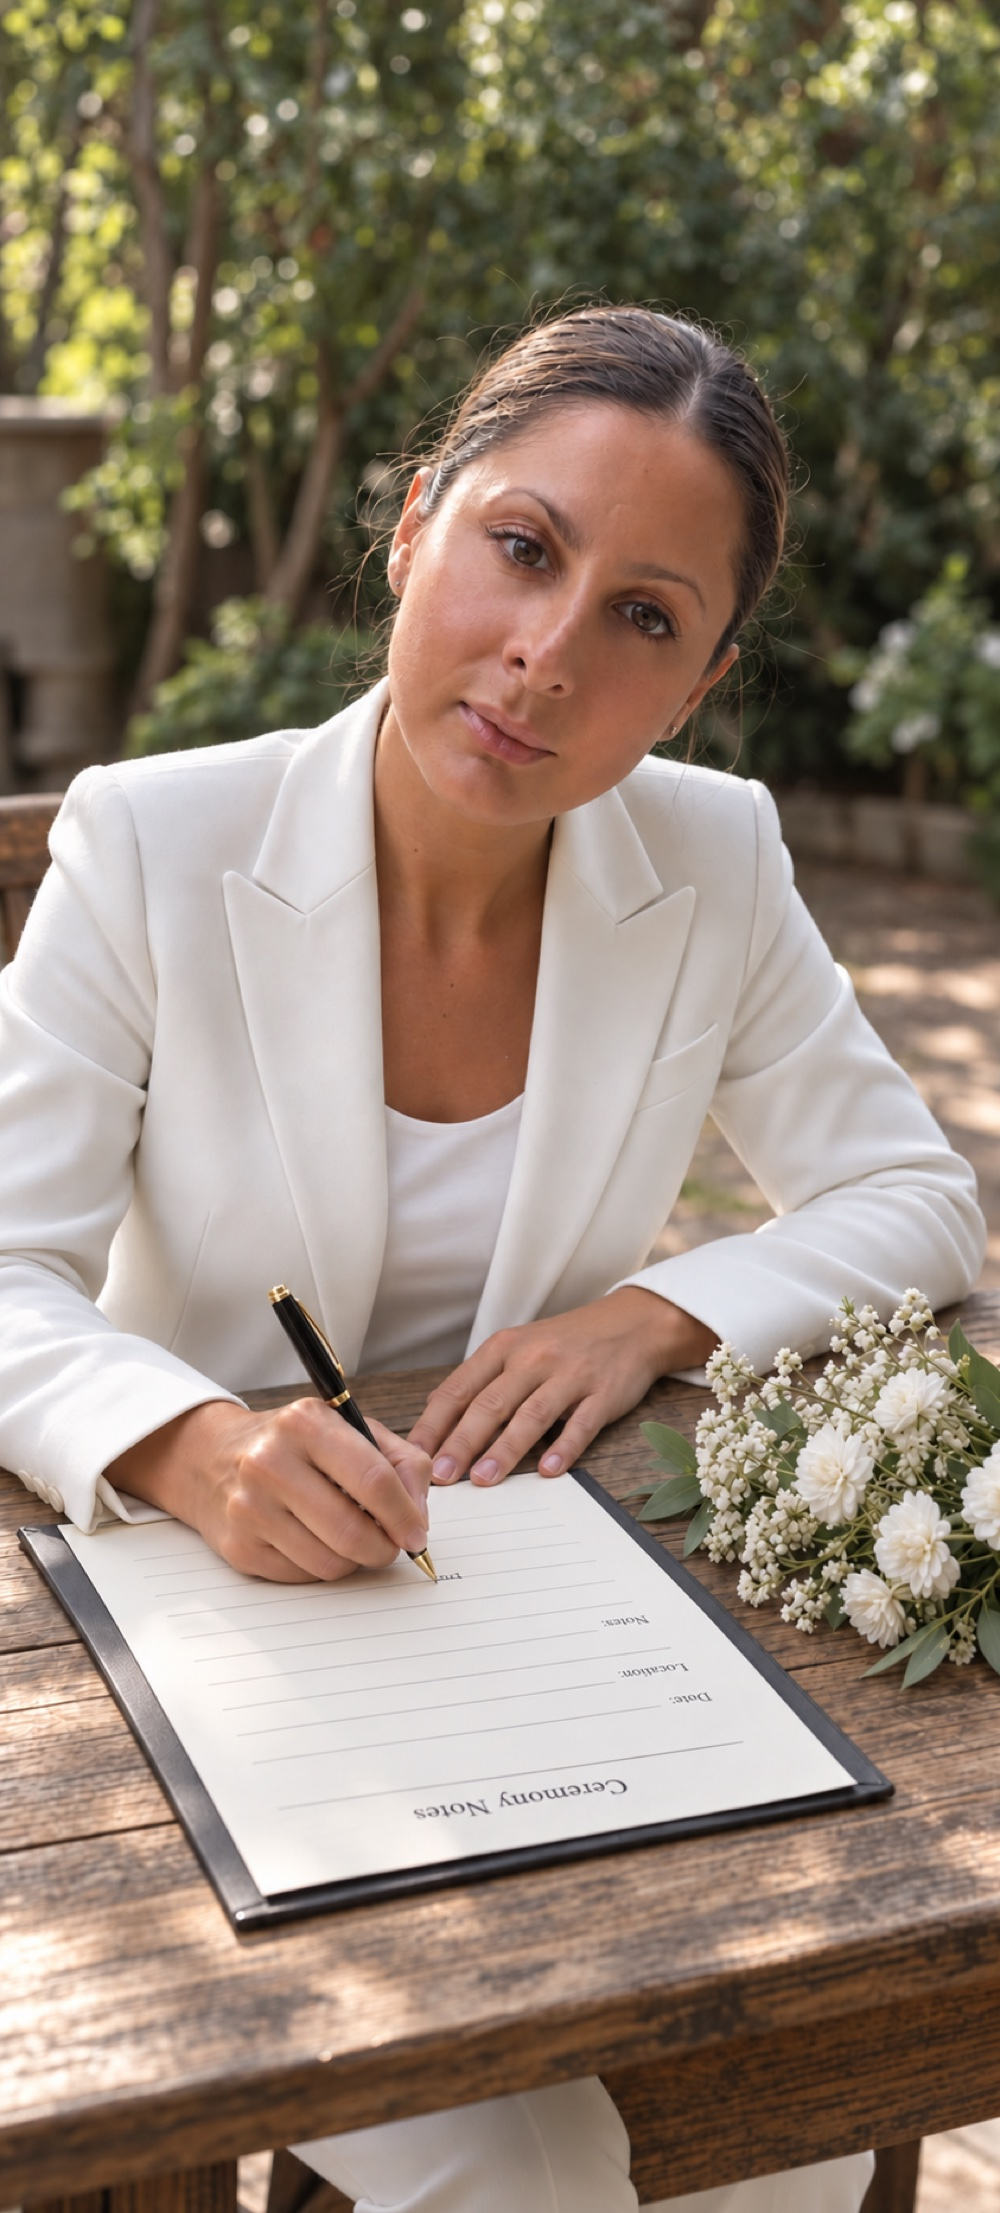
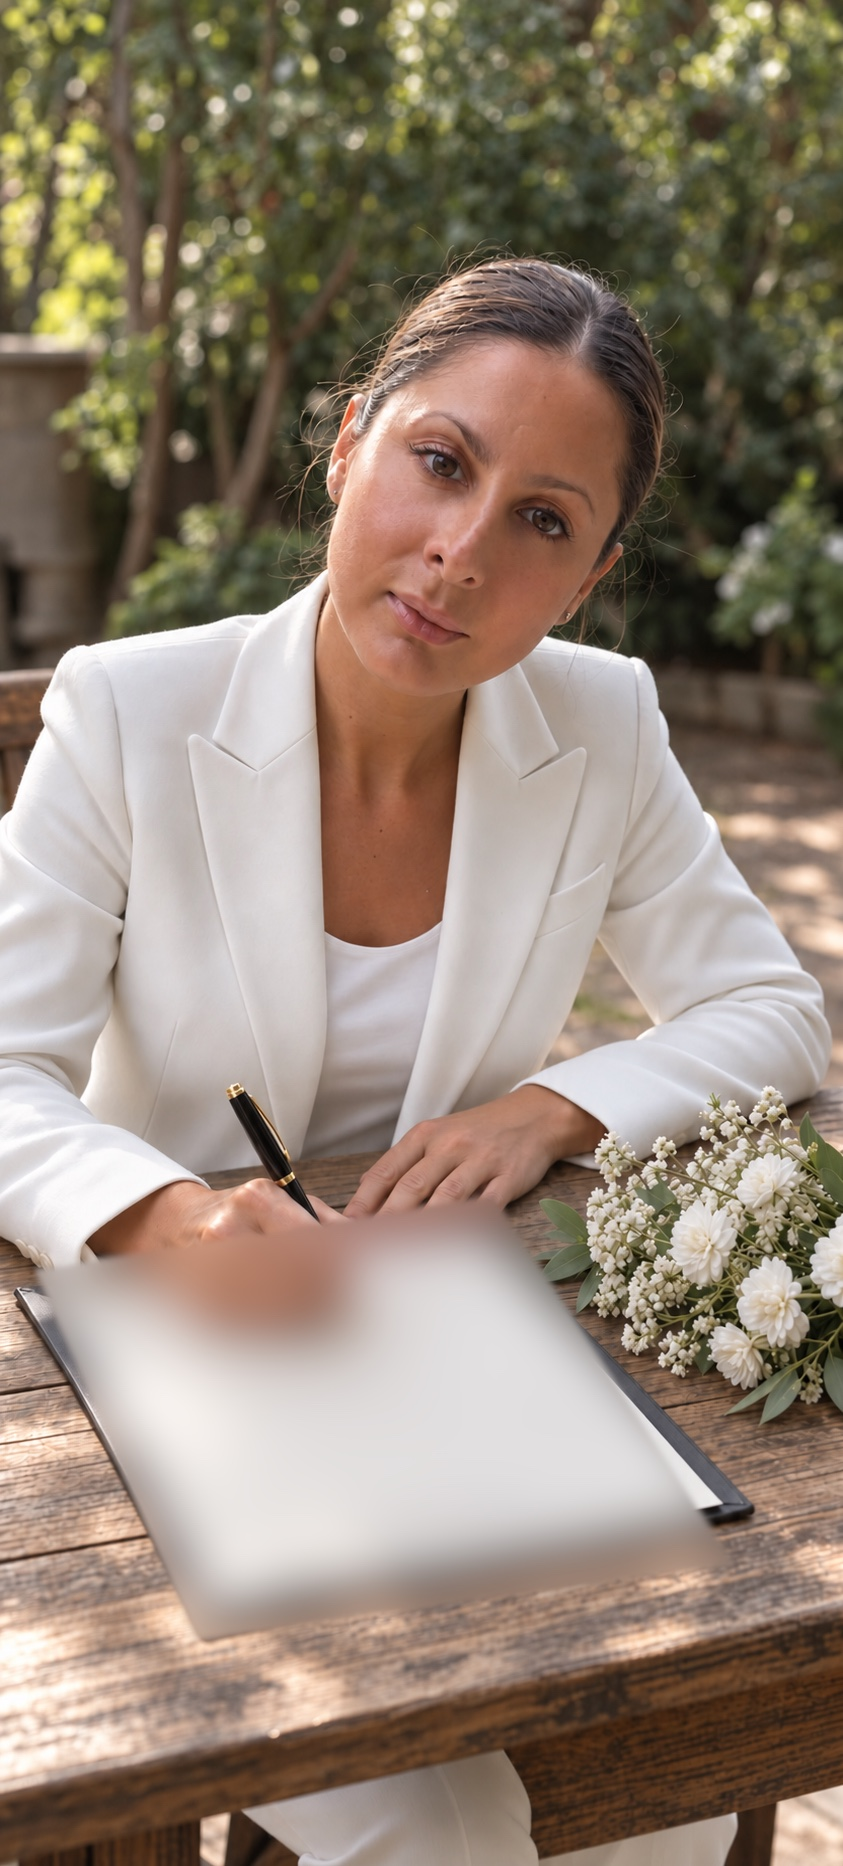
Blur ceremony document and diversify portraits

Changed region(s): [[0.0308, 0.6217, 0.8636, 0.9014]]

diff --git a/index.html b/index.html
@@ -97,15 +97,15 @@
         <div class="service-story" data-scroll-story>
           <div class="story-stage">
             <figure class="story-frame active" data-frame="0">
-              <img src="assets/adriana-portrait.jpg" alt="Adriana Mayorga providing personal legal counsel" loading="lazy" />
+              <img src="assets/ceremony-notes.jpg" alt="Adriana Mayorga preparing detailed ceremony notes" loading="lazy" />
               <figcaption><span>01</span><span data-i18n="storyCaptionOne">Clear advice. Complete discretion.</span></figcaption>
             </figure>
             <figure class="story-frame" data-frame="1">
-              <img src="assets/ceremony-notes.jpg" alt="Adriana carefully preparing ceremony notes" loading="lazy" />
+              <img src="assets/wedding-table.jpg" alt="Adriana at a ceremony table with legal documents" loading="lazy" />
               <figcaption><span>02</span><span data-i18n="storyCaptionTwo">Every detail, carefully considered.</span></figcaption>
             </figure>
             <figure class="story-frame" data-frame="2">
-              <img src="assets/adriana-beach.jpg" alt="Adriana at a destination wedding setting in Costa Rica" loading="lazy" />
+              <img src="assets/beach-vows.jpg" alt="A couple exchanging vows at a beach ceremony in Costa Rica" loading="lazy" />
               <figcaption><span>03</span><span data-i18n="storyCaptionThree">Your story, beautifully honored.</span></figcaption>
             </figure>
             <div class="story-progress" aria-hidden="true"><span></span><span></span><span></span></div>
@@ -113,7 +113,7 @@
 
           <div class="story-steps">
             <article class="story-step active" data-step="0">
-              <img class="story-step-image" src="assets/adriana-portrait.jpg" alt="Adriana Mayorga providing personal legal counsel" loading="lazy" />
+              <img class="story-step-image" src="assets/ceremony-notes.jpg" alt="Adriana Mayorga preparing detailed ceremony notes" loading="lazy" />
               <span class="story-number">01</span>
               <p class="eyebrow" data-i18n="storyEyebrowOne">Private counsel</p>
               <h3 data-i18n="legalTitle">Legal guidance</h3>
@@ -121,7 +121,7 @@
             </article>
 
             <article class="story-step" data-step="1">
-              <img class="story-step-image" src="assets/ceremony-notes.jpg" alt="Adriana carefully preparing ceremony notes" loading="lazy" />
+              <img class="story-step-image" src="assets/wedding-table.jpg" alt="Adriana at a ceremony table with legal documents" loading="lazy" />
               <span class="story-number">02</span>
               <p class="eyebrow" data-i18n="storyEyebrowTwo">Precision in every detail</p>
               <h3 data-i18n="notaryTitle">Notarial services</h3>
@@ -129,7 +129,7 @@
             </article>
 
             <article class="story-step" data-step="2">
-              <img class="story-step-image" src="assets/adriana-beach.jpg" alt="Adriana at a destination wedding setting in Costa Rica" loading="lazy" />
+              <img class="story-step-image" src="assets/beach-vows.jpg" alt="A couple exchanging vows at a beach ceremony in Costa Rica" loading="lazy" />
               <span class="story-number">03</span>
               <p class="eyebrow" data-i18n="storyEyebrowThree">Made for your story</p>
               <h3 data-i18n="weddingTitle">Civil weddings</h3>
@@ -195,7 +195,7 @@
           <div class="signature">Adriana</div>
         </div>
         <div class="about-photo reveal">
-          <img src="assets/adriana-portrait.jpg" alt="Portrait of Adriana Mayorga" loading="lazy" />
+          <img src="assets/adriana-beach.jpg" alt="Adriana Mayorga at a beach wedding setting in Costa Rica" loading="lazy" />
           <div class="about-stamp" aria-hidden="true"><span>Alma Legal</span><i>✦</i><span>Costa Rica</span></div>
         </div>
       </section>

diff --git a/styles.css b/styles.css
@@ -109,7 +109,7 @@ h1 em, h2 em { color: var(--orange); font-style: italic; }
 .story-frame img { height: 100%; object-fit: cover; }
 .story-frame[data-frame="0"] img { object-position: 50% 28%; }
 .story-frame[data-frame="1"] img { object-position: 50% 38%; }
-.story-frame[data-frame="2"] img { object-position: 50% 32%; }
+.story-frame[data-frame="2"] img { object-position: 50% 50%; }
 .story-frame figcaption { position: absolute; z-index: 2; right: 42px; bottom: 38px; left: 42px; display: flex; align-items: center; justify-content: space-between; gap: 25px; color: var(--white); font-family: var(--serif); font-size: clamp(22px, 2.3vw, 34px); }
 .story-frame figcaption span:first-child { color: var(--lavender); font-family: var(--sans); font-size: 9px; letter-spacing: .2em; }
 .story-progress { position: absolute; z-index: 3; top: 50%; right: 18px; display: flex; flex-direction: column; gap: 9px; transform: translateY(-50%); }
@@ -240,7 +240,7 @@ footer p { color: #74736b; font-size: 11px; }
   .story-step-image { width: 100%; height: 470px; margin-bottom: 30px; display: block; object-fit: cover; }
   .story-step:nth-child(1) .story-step-image { object-position: 50% 28%; }
   .story-step:nth-child(2) .story-step-image { object-position: 50% 38%; }
-  .story-step:nth-child(3) .story-step-image { object-position: 50% 30%; }
+  .story-step:nth-child(3) .story-step-image { object-position: 50% 50%; }
   .story-number { top: 495px; }
   .story-step h3 { font-size: 47px; }
   .weddings { grid-template-columns: 1fr; }
